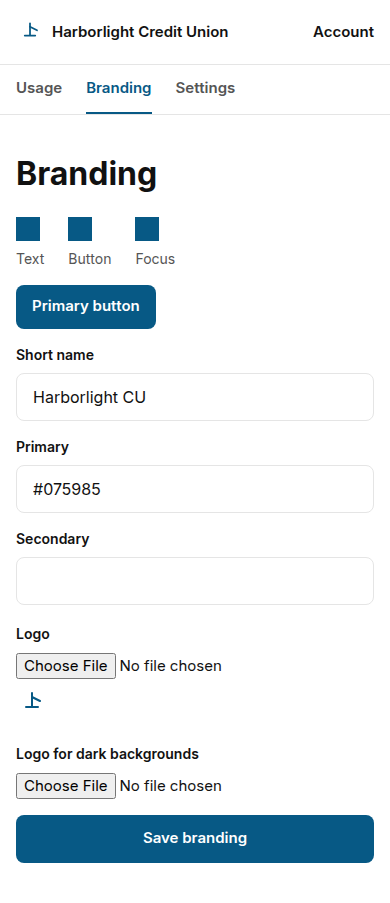
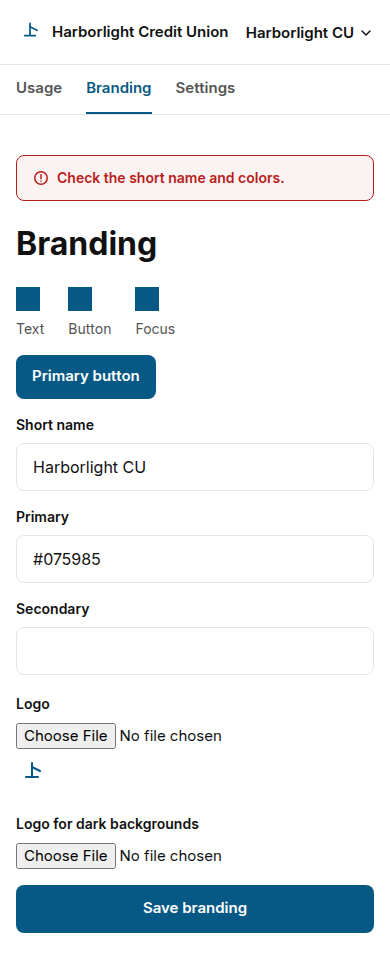
Match the credit-union polish to the design spec.
Use one staff header, tinted alerts with icons, a centered empty state, and a 40px footer line.

Changed region(s): [[0.0308, 0.0, 0.7385, 0.6512], [0.0308, 0.6822, 0.9538, 0.9612], [0.6154, 0.031, 0.9538, 0.062]]

diff --git a/src/app/cu/[tenant]/dashboard/page.tsx b/src/app/cu/[tenant]/dashboard/page.tsx
@@ -5,9 +5,9 @@ import { canOpenTenant, CU_SESSION_COOKIE, verifySession } from '@/cu/auth';
 import { resolveBrand } from '@/cu/brand';
 import { getAggregates, getBranding, getSettings } from '@/cu/cu-store';
 import { getCuTenant } from '@/cu/tenants';
-import { AccountMenu } from '../../AccountMenu';
 import { saveSettingsAction, sendSummaryAction } from '../../actions';
 import { BrandLockup } from '../../BrandLockup';
+import { StaffHeader } from '../../StaffHeader';
 import { BrandingForm } from './BrandingForm';
 
 export const dynamic = 'force-dynamic';
@@ -24,6 +24,30 @@ function sectionFrom(query: { section?: string; saved?: string; error?: string; 
   if (query.saved === 'branding' || query.error === 'branding') return 'branding';
   if (query.saved === 'settings' || query.saved === 'email' || query.error === 'email' || query.notice) return 'settings';
   return 'usage';
+}
+
+function AlertIcon({ tone }: { tone: 'ok' | 'err' }) {
+  return tone === 'ok' ? (
+    <svg viewBox="0 0 16 16" width="16" height="16" aria-hidden="true">
+      <circle cx="8" cy="8" r="6.25" fill="none" stroke="currentColor" strokeWidth="1.5" />
+      <path d="M5 8.2l2 2 4-4.2" fill="none" stroke="currentColor" strokeWidth="1.5" strokeLinecap="round" strokeLinejoin="round" />
+    </svg>
+  ) : (
+    <svg viewBox="0 0 16 16" width="16" height="16" aria-hidden="true">
+      <circle cx="8" cy="8" r="6.25" fill="none" stroke="currentColor" strokeWidth="1.5" />
+      <path d="M8 4.8v4" fill="none" stroke="currentColor" strokeWidth="1.5" strokeLinecap="round" />
+      <circle cx="8" cy="11.2" r="0.8" fill="currentColor" />
+    </svg>
+  );
+}
+
+function Alert({ tone, children }: { tone: 'ok' | 'err'; children: string }) {
+  return (
+    <p className={`${tone === 'ok' ? 'cu-ok' : 'cu-err'} mb-6`} role={tone === 'ok' ? 'status' : 'alert'}>
+      <AlertIcon tone={tone} />
+      <span>{children}</span>
+    </p>
+  );
 }
 
 const NOTICES: Record<string, string> = {
@@ -70,20 +94,17 @@ export default async function DashboardPage({
 
   return (
     <>
-      <header className="border-b cu-line">
-        <div className="mx-auto flex min-h-16 w-full max-w-[1120px] items-center justify-between gap-4 px-4">
-          <BrandLockup
-            name={tenant.name}
-            shortName={brand.shortName}
-            color={brand.brandText}
-            mark={tenant.logo}
-            logoLight={brand.logoLight}
-            logoAspect={brand.logoAspect}
-            fullNameOnPhone
-          />
-          <AccountMenu tenant={tenant.id} linkClassName="cu-link text-[15px] font-semibold underline underline-offset-4 cu-linkline" />
-        </div>
-      </header>
+      <StaffHeader tenant={tenant.id} accountLabel={brand.shortName}>
+        <BrandLockup
+          name={tenant.name}
+          shortName={brand.shortName}
+          color={brand.brandText}
+          mark={tenant.logo}
+          logoLight={brand.logoLight}
+          logoAspect={brand.logoAspect}
+          fullNameOnPhone
+        />
+      </StaffHeader>
       <nav className="border-b cu-line">
         <div className="mx-auto flex w-full max-w-[1120px] gap-6 px-4">
           {tabs.map(tab => (
@@ -99,9 +120,9 @@ export default async function DashboardPage({
         </div>
       </nav>
       <main className="mx-auto w-full max-w-[1120px] px-4 py-10">
-        {saved ? <p className="cu-ok mb-6 rounded-lg px-4 py-3 text-[14px] font-semibold leading-[20px]" role="status">{saved}</p> : null}
-        {caution ? <p className="cu-err mb-6 rounded-lg px-4 py-3 text-[14px] font-semibold leading-[20px]" role="status">{caution}</p> : null}
-        {error ? <p className="cu-err mb-6 rounded-lg px-4 py-3 text-[14px] font-semibold leading-[20px]" role="alert">{error}</p> : null}
+        {saved ? <Alert tone="ok">{saved}</Alert> : null}
+        {caution ? <Alert tone="err">{caution}</Alert> : null}
+        {error ? <Alert tone="err">{error}</Alert> : null}
 
         {section === 'usage' ? <section aria-labelledby="usage-heading">
           <h1 id="usage-heading" className="text-[32px] font-bold leading-[38px]">Usage</h1>
@@ -117,9 +138,10 @@ export default async function DashboardPage({
             </p>
           </div>
           {aggregates.checks === 0 ? (
-            <p className="mt-10 max-w-[560px] text-[15px] leading-[24px]">
-              No checks yet. Share your link: <a href={shareUrl} className="cu-link underline underline-offset-4 cu-linkline">{shareUrl}</a>
-            </p>
+            <div className="mx-auto mt-10 w-full max-w-[560px] text-center">
+              <h2 className="text-[24px] font-bold leading-[30px]">No checks yet</h2>
+              <p className="mt-2 text-[14px] leading-[20px] cu-muted">Share your link: {shareUrl}</p>
+            </div>
           ) : (
             <div className="mt-10">
               <table className="w-full max-w-[560px] border-collapse text-left">

diff --git a/src/app/cu/AccountMenu.tsx b/src/app/cu/AccountMenu.tsx
@@ -1,17 +1,59 @@
+'use client';
+
+import { useEffect, useId, useRef, useState } from 'react';
 import { signOut } from './actions';
 
-export function AccountMenu({ tenant, linkClassName }: { tenant: string; linkClassName: string }) {
+function Chevron({ open }: { open: boolean }) {
   return (
-    <details className="relative shrink-0">
-      <summary className="cursor-pointer list-none text-[15px] font-semibold [&::-webkit-details-marker]:hidden">
-        Account
-      </summary>
-      <div className="absolute right-0 z-10 mt-2 border cu-line bg-white px-4 py-3">
-        <form action={signOut}>
-          <input type="hidden" name="tenant" value={tenant} />
-          <button type="submit" className={linkClassName}>Sign out</button>
-        </form>
-      </div>
-    </details>
+    <svg viewBox="0 0 16 16" width="16" height="16" aria-hidden="true" className={open ? 'rotate-180' : ''}>
+      <path d="M4 6l4 4 4-4" fill="none" stroke="currentColor" strokeWidth="1.5" strokeLinecap="round" strokeLinejoin="round" />
+    </svg>
+  );
+}
+
+export function AccountMenu({ tenant, label }: { tenant: string; label: string }) {
+  const [open, setOpen] = useState(false);
+  const rootRef = useRef<HTMLDivElement>(null);
+  const menuId = useId();
+
+  useEffect(() => {
+    if (!open) return;
+    function onPointer(event: PointerEvent) {
+      if (!rootRef.current?.contains(event.target as Node)) setOpen(false);
+    }
+    function onKey(event: KeyboardEvent) {
+      if (event.key === 'Escape') setOpen(false);
+    }
+    document.addEventListener('pointerdown', onPointer);
+    document.addEventListener('keydown', onKey);
+    return () => {
+      document.removeEventListener('pointerdown', onPointer);
+      document.removeEventListener('keydown', onKey);
+    };
+  }, [open]);
+
+  return (
+    <div className="relative shrink-0" ref={rootRef}>
+      <button
+        type="button"
+        className="inline-flex items-center gap-1 text-[15px] font-semibold leading-[20px]"
+        aria-expanded={open}
+        aria-controls={menuId}
+        onClick={() => setOpen(value => !value)}
+      >
+        {label}
+        <Chevron open={open} />
+      </button>
+      {open ? (
+        <div id={menuId} className="absolute right-0 z-10 mt-2 rounded-lg border cu-line bg-white p-2">
+          <form action={signOut}>
+            <input type="hidden" name="tenant" value={tenant} />
+            <button type="submit" className="block whitespace-nowrap text-left text-[15px] font-semibold leading-[20px] cu-ink">
+              Sign out
+            </button>
+          </form>
+        </div>
+      ) : null}
+    </div>
   );
 }

diff --git a/src/app/cu/admin/page.tsx b/src/app/cu/admin/page.tsx
@@ -4,7 +4,7 @@ import { redirect } from 'next/navigation';
 import { CU_SESSION_COOKIE, demoTenantId, verifySession } from '@/cu/auth';
 import { getAggregates, getSettings, staffDirectory } from '@/cu/cu-store';
 import { CU_TENANTS } from '@/cu/tenants';
-import { AccountMenu } from '../AccountMenu';
+import { StaffHeader } from '../StaffHeader';
 
 export const metadata: Metadata = {
   title: 'Credit unions — admin',
@@ -29,12 +29,9 @@ export default async function AdminPage() {
 
   return (
     <>
-      <header className="border-b cu-line">
-        <div className="mx-auto flex min-h-16 w-full max-w-[1120px] items-center justify-between gap-4 px-4">
-          <p className="text-[15px] font-semibold leading-[20px]">Sign or Walk</p>
-          <AccountMenu tenant={demoTenantId()} linkClassName="cu-ink text-[15px] font-semibold underline underline-offset-4 cu-linkline" />
-        </div>
-      </header>
+      <StaffHeader tenant={demoTenantId()} accountLabel="Admin">
+        <p className="text-[15px] font-semibold leading-[20px]">Sign or Walk</p>
+      </StaffHeader>
       <main className="mx-auto w-full max-w-[1120px] px-4 py-10">
         <h1 className="text-[32px] font-bold leading-[38px]">Credit unions</h1>
         <div className="mt-8 grid grid-cols-2 gap-4 md:grid-cols-3">

diff --git a/src/app/cu/ChromeStyle.tsx b/src/app/cu/ChromeStyle.tsx
@@ -13,8 +13,21 @@ export function ChromeStyle() {
       .cu-line { border-color: var(--cu-line); }
       .cu-band { background-color: var(--cu-band); }
       .cu-solid { background-color: var(--cu-ink); color: #fff; }
-      .cu-ok { background-color: #f0fdf4; color: #14532d; }
-      .cu-err { background-color: #fef2f2; color: #7f1d1d; }
+      .cu-ok, .cu-err {
+        display: flex;
+        align-items: flex-start;
+        gap: 8px;
+        border-radius: 8px;
+        border-width: 1px;
+        border-style: solid;
+        padding: 12px 16px;
+        font-size: 14px;
+        line-height: 20px;
+        font-weight: 600;
+      }
+      .cu-ok { border-color: #15803d; background: rgb(21 128 61 / 0.06); color: #15803d; }
+      .cu-err { border-color: #b91c1c; background: rgb(185 28 28 / 0.06); color: #b91c1c; }
+      .cu-ok svg, .cu-err svg { flex: none; margin-top: 2px; }
       .cu-linkline { text-decoration-color: var(--cu-muted); }
       .cu-linkline:hover { text-decoration-color: var(--cu-ink); }
       .cu-ring:focus-visible { outline: 2px solid var(--cu-ink); outline-offset: 2px; }

diff --git a/src/app/credit-unions/page.tsx b/src/app/credit-unions/page.tsx
@@ -82,13 +82,13 @@ export default function CreditUnionsPage() {
         </div>
       </div>
 
-      <footer className="mx-auto mt-16 w-full max-w-[960px] px-4 pb-16 md:mt-24 md:pb-24">
+      <footer className="mx-auto w-full max-w-[960px] px-4 py-10">
         <p className="whitespace-nowrap text-[14px] leading-[20px] cu-muted">
           © 2026
           {' · '}
-          <Link href="/credit-unions/privacy" className="cu-ink underline decoration-1 underline-offset-4 cu-linkline cu-ring">Privacy</Link>
+          <Link href="/credit-unions/privacy" className="hover:underline underline-offset-4 cu-ring">Privacy</Link>
           {' · '}
-          <Link href="/contact" className="cu-ink underline decoration-1 underline-offset-4 cu-linkline cu-ring">Contact</Link>
+          <Link href="/contact" className="hover:underline underline-offset-4 cu-ring">Contact</Link>
         </p>
       </footer>
     </div>

diff --git a/src/app/cu/StaffHeader.tsx b/src/app/cu/StaffHeader.tsx
@@ -1,0 +1,20 @@
+import { AccountMenu } from './AccountMenu';
+
+export function StaffHeader({
+  tenant,
+  accountLabel,
+  children,
+}: {
+  tenant: string;
+  accountLabel: string;
+  children: React.ReactNode;
+}) {
+  return (
+    <header className="border-b cu-line">
+      <div className="mx-auto flex min-h-16 w-full max-w-[1120px] items-center justify-between gap-4 px-4">
+        {children}
+        <AccountMenu tenant={tenant} label={accountLabel} />
+      </div>
+    </header>
+  );
+}
